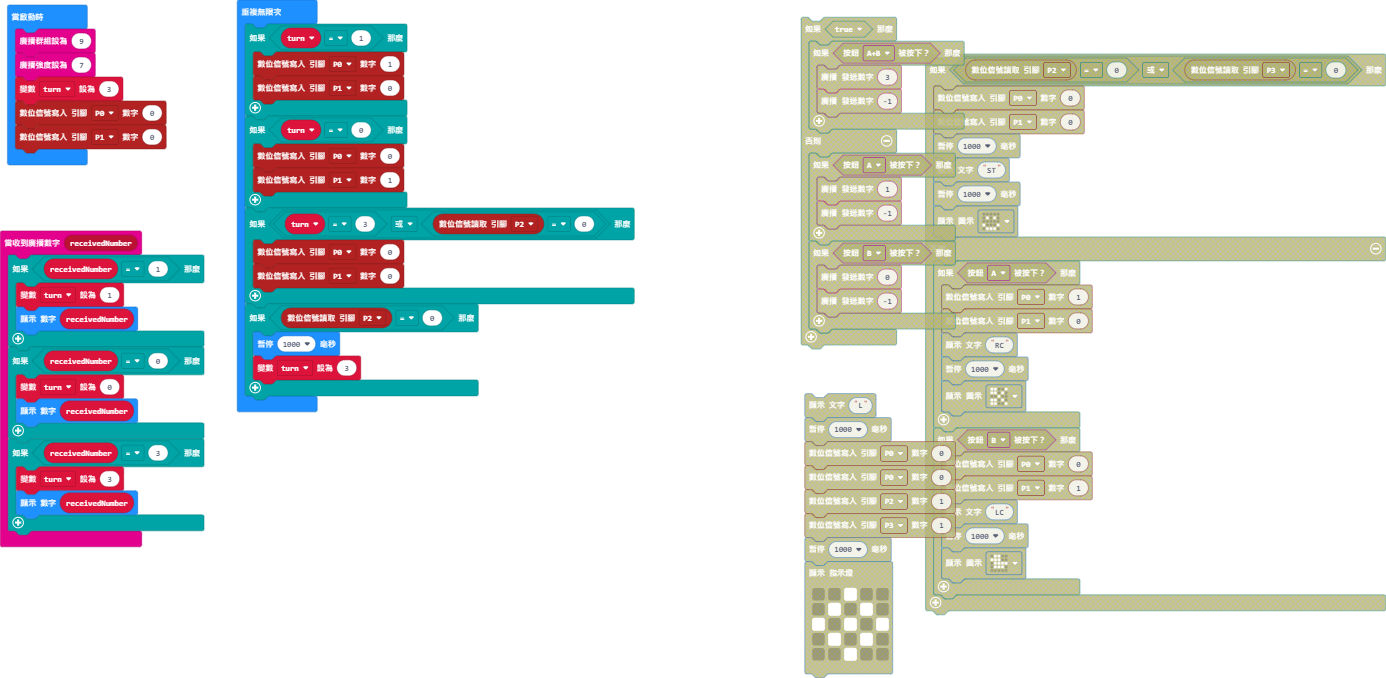
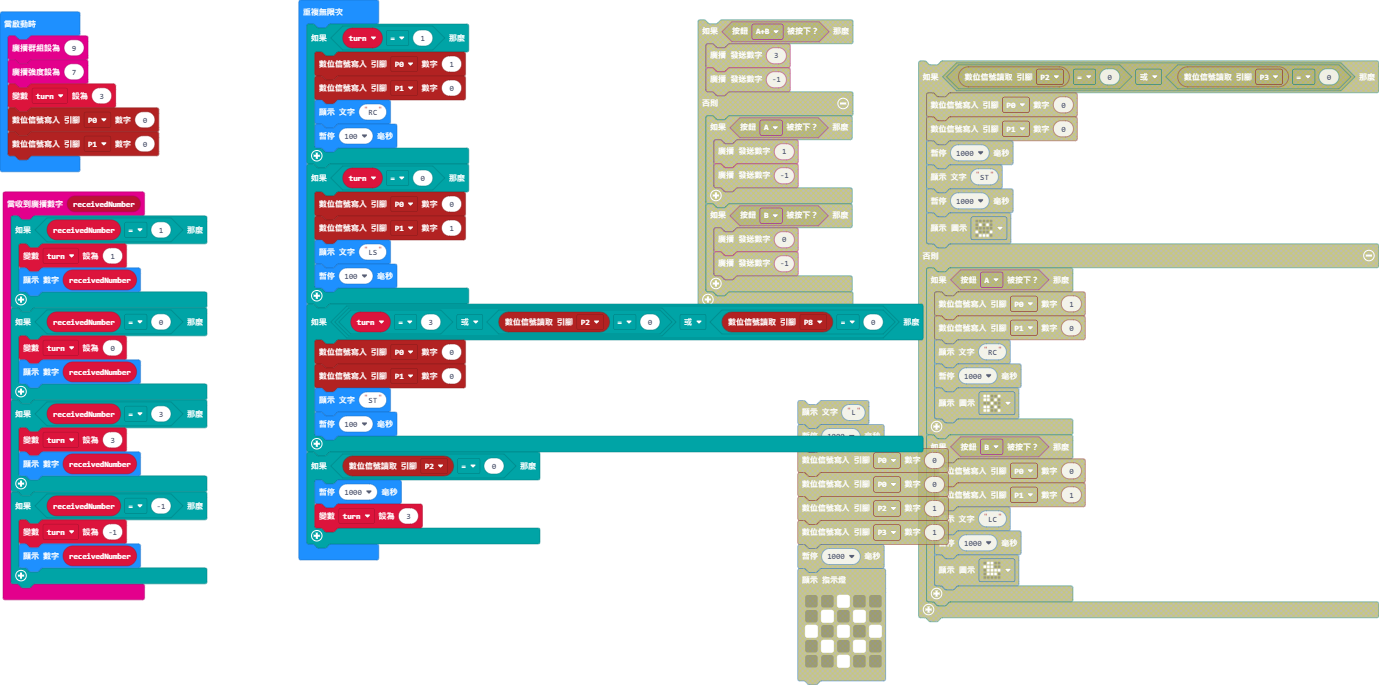
更新 pxt.json, main.blocks, main.ts

diff --git a/main.ts b/main.ts
@@ -11,6 +11,10 @@ radio.onReceivedNumber(function (receivedNumber) {
         turn = 3
         basic.showNumber(receivedNumber)
     }
+    if (receivedNumber == -1) {
+        turn = -1
+        basic.showNumber(receivedNumber)
+    }
 })
 let turn = 0
 radio.setGroup(9)
@@ -22,14 +26,20 @@ basic.forever(function () {
     if (turn == 1) {
         pins.digitalWritePin(DigitalPin.P0, 1)
         pins.digitalWritePin(DigitalPin.P1, 0)
+        basic.showString("RC")
+        basic.pause(100)
     }
     if (turn == 0) {
         pins.digitalWritePin(DigitalPin.P0, 0)
         pins.digitalWritePin(DigitalPin.P1, 1)
+        basic.showString("LS")
+        basic.pause(100)
     }
-    if (turn == 3 || pins.digitalReadPin(DigitalPin.P2) == 0) {
+    if (turn == 3 || pins.digitalReadPin(DigitalPin.P2) == 0 || pins.digitalReadPin(DigitalPin.P8) == 0) {
         pins.digitalWritePin(DigitalPin.P0, 0)
         pins.digitalWritePin(DigitalPin.P1, 0)
+        basic.showString("ST")
+        basic.pause(100)
     }
     if (pins.digitalReadPin(DigitalPin.P2) == 0) {
         basic.pause(1000)
